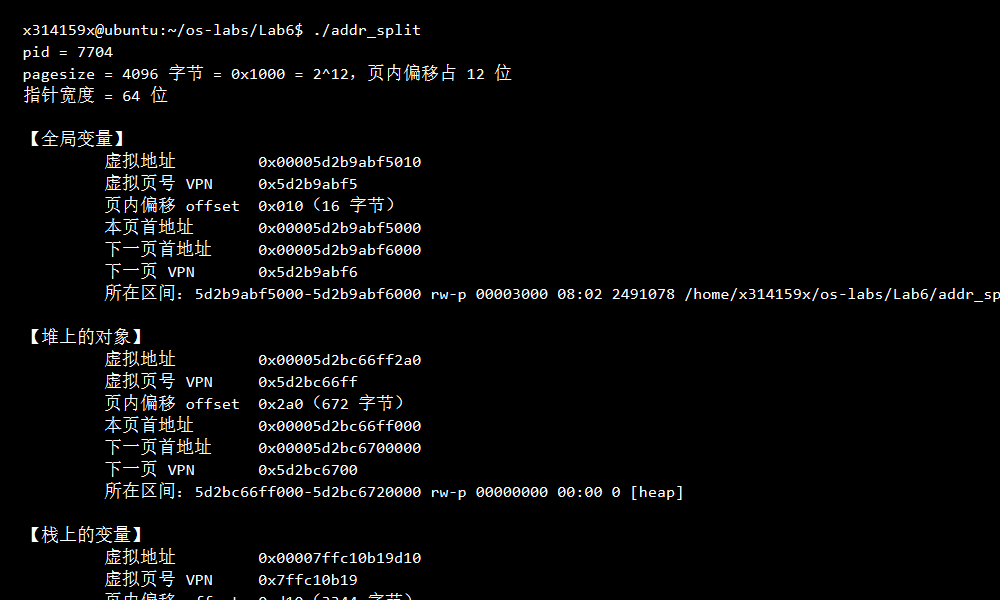
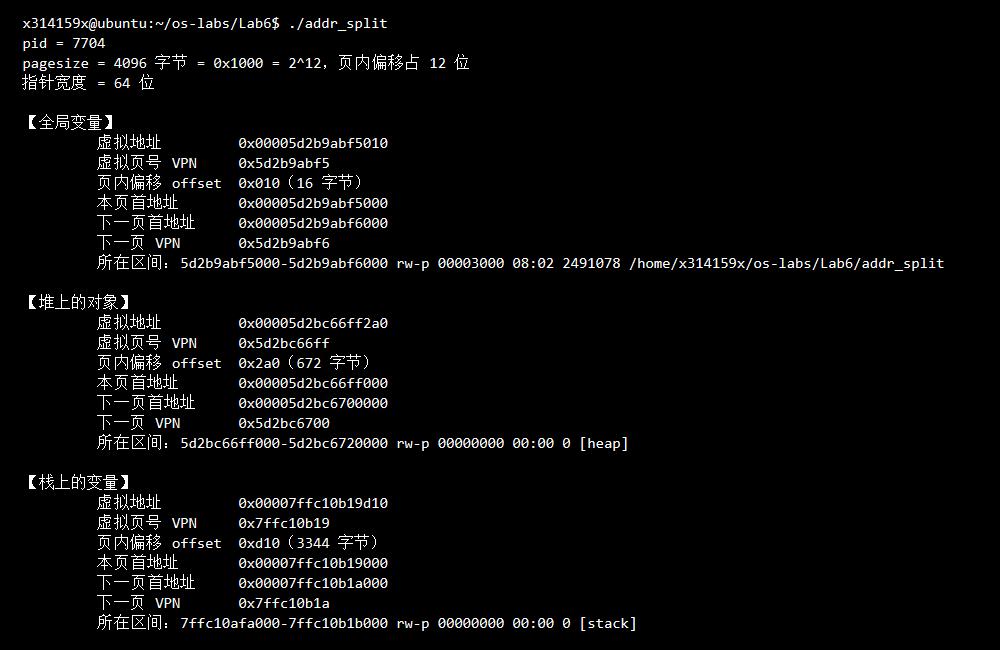
[2026333016王石]Lab6作业提交

Changed region(s): [[0.0, 0.03, 1.0, 1.0]]

diff --git a/2026333016王石/Lab6/Lab6.md b/2026333016王石/Lab6/Lab6.md
@@ -16,14 +16,7 @@
 
 ### 1.1 虚拟页号与页内偏移
 
-虚拟地址空间按固定大小划分为页，各页从 0 开始编号。一个虚拟地址由以下两部分确定：
-
-| 名称 | 记号 | 含义 |
-| :--- | :--- | :--- |
-| 虚拟页号 | VPN | 标识该地址属于哪个虚拟页 |
-| 页内偏移 | offset | 该地址相对于所属页起始地址的字节距离 |
-
-设虚拟地址为 `addr`，页大小为 `ps`：
+虚拟地址空间以页为单位划分。一个虚拟地址由**虚拟页号（VPN）**和**页内偏移（offset）**共同确定。设虚拟地址为 `addr`、页大小为 `ps`：
 
 ```text
 VPN    = addr ÷ ps 的整数商
@@ -31,44 +24,22 @@ offset = addr 除以 ps 的余数
 addr   = VPN × ps + offset
 ```
 
-例如，页大小为 4096 字节，虚拟地址为 4102：
+例如，页大小为 4096 字节，地址为 4102，则 `4102 = 1 × 4096 + 6`，VPN 为 1、偏移为 6 字节。
+
+### 1.2 为什么使用十六进制
+
+本实验使用的 Linux 通常采用 **4 KiB 页**，即 `4096 = 0x1000 = 2¹²` 字节。页内偏移占低 12 位，对应**末尾 3 位十六进制数字**；其余高位对应 VPN。
 
 ```text
-4102 = 1 × 4096 + 6
-VPN = 1，offset = 6
+虚拟地址：0x000055d0a1b2c010
+虚拟页号：0x55d0a1b2c     ← 去掉末尾 3 位
+页内偏移：0x010           ← 保留末尾 3 位（16 字节）
+本页首址：0x000055d0a1b2c000 ← 末尾 3 位置零
 ```
 
-这表示地址 4102 属于虚拟页 1，距离该页起始地址 6 字节。
+因此，地址、VPN 和页首地址用**十六进制**表示更便于观察；偏移用十六进制表示，并附带十进制字节数。程序会自动显示实际页大小，**只有页大小为 4096 字节时才能直接按末尾 3 位拆分**；其他页大小应根据实际位数或使用上面的除法与取余计算。
 
-### 1.2 页边界
-
-4 KiB 等于 4096 字节。采用该页大小时，前三个虚拟页的地址范围如下，区间两端均包含在内：
-
-| VPN | 虚拟地址范围（十进制） |
-| :---: | :--- |
-| 0 | 0～4095 |
-| 1 | 4096～8191 |
-| 2 | 8192～12287 |
-
-余数小于除数，因此页内偏移满足：
-
-```text
-0 ≤ offset < ps
-```
-
-4 KiB 页的偏移范围是 0～4095。由于 `4096 = 2¹²`，偏移占 12 个二进制位。程序会自动显示本机页大小与偏移位数，无需手工拆解二进制地址。
-
-地址增加 1 时，是否跨页取决于原偏移：
-
-- 原偏移小于 `ps − 1`：VPN 不变，偏移增加 1。
-- 原偏移等于 `ps − 1`：VPN 增加 1，偏移变为 0。
-
-例如，地址 4095 的 VPN 为 0、偏移为 4095；地址 4096 的 VPN 为 1、偏移为 0。以下两个公式用于定位当前页与下一页的起点：
-
-```text
-本页首地址   = addr − offset
-下一页首地址 = 本页首地址 + ps
-```
+页内偏移总满足 `0 ≤ offset < ps`。页大小为 4096 时，范围为 `0x000～0xfff`（即 0～4095 字节）。本页首地址为 `addr − offset`，下一页首地址为 `本页首地址 + ps`。地址增加 1 字节是否跨页，取决于当前偏移是否已到该页末尾。
 
 ### 1.3 页与内存映射区间
 
@@ -263,152 +234,85 @@ echo $?
 
 正常退出状态应为 `0`。保留本次输出，后续表格与截图统一使用这次运行的数据。重新运行时地址可能变化，不应混合不同运行的记录。
 
-### 步骤 7：按字段读取输出
+### 步骤 7：读取输出并完成实验记录
 
-以下内容仅为**教学示例**，用于说明格式和读取方法，不作为学生实测记录：
+在步骤 1 建立的本机 `Lab6.md` 中填写本节表格和问题。以下是一组**教学示例**，展示如何读取程序输出，**不得代替本人实测结果**。实际地址每次运行可能不同。
 
 ```text
 pid = 5312
-pagesize = 4096 字节 = 2^12，因此页内偏移占 12 位
+pagesize = 4096 字节 = 0x1000 = 2^12，页内偏移占 12 位
 指针宽度 = 64 位
 
 【全局变量】
-         地址             0x000055d0a1b2c010
-         页号 VPN         23035779884
-         页内偏移 offset  16
+         虚拟地址         0x000055d0a1b2c010
+         虚拟页号 VPN     0x55d0a1b2c
+         页内偏移 offset  0x010（16 字节）
          本页首地址       0x000055d0a1b2c000
-         地址 +1 的页号    23035779884（仍在同一页）
-         下一页首地址     0x000055d0a1b2d000，页号 23035779885
+         下一页首地址     0x000055d0a1b2d000
+         下一页 VPN       0x55d0a1b2d
          所在区间：55d0a1b2c000-55d0a1b2d000 rw-p 00001000 08:01 1234567 /home/student/os-labs/Lab6/addr_split
 
 【堆上的对象】
-         地址             0x000055d0a3e4f2a0
-         页号 VPN         23035788879
-         页内偏移 offset  672
+         虚拟地址         0x000055d0a3e4f2a0
+         虚拟页号 VPN     0x55d0a3e4f
+         页内偏移 offset  0x2a0（672 字节）
          本页首地址       0x000055d0a3e4f000
-         地址 +1 的页号    23035788879（仍在同一页）
-         下一页首地址     0x000055d0a3e50000，页号 23035788880
+         下一页首地址     0x000055d0a3e50000
+         下一页 VPN       0x55d0a3e50
          所在区间：55d0a3e4f000-55d0a3e70000 rw-p 00000000 00:00 0 [heap]
 
 【栈上的变量】
-         地址             0x00007ffd3c2a4b2c
-         页号 VPN         34356839076
-         页内偏移 offset  2860
+         虚拟地址         0x00007ffd3c2a4b2c
+         虚拟页号 VPN     0x7ffd3c2a4
+         页内偏移 offset  0xb2c（2860 字节）
          本页首地址       0x00007ffd3c2a4000
-         地址 +1 的页号    34356839076（仍在同一页）
-         下一页首地址     0x00007ffd3c2a5000，页号 34356839077
+         下一页首地址     0x00007ffd3c2a5000
+         下一页 VPN       0x7ffd3c2a5
          所在区间：7ffd3c286000-7ffd3c2a7000 rw-p 00000000 00:00 0 [stack]
 ```
 
-以上示例包含程序输出的环境信息和三个对象的完整记录。各段字段顺序相同，按以下顺序阅读：
+**读法提示：**每个对象从其标题读到下一对象标题之前；`0x` 表示十六进制，`pagesize` 是页大小（字节）。以示例全局变量为例，`0x...c010` 的末三位 `010` 为偏移，高位 `0x55d0a1b2c` 为 VPN；对应页首地址以 `000` 结尾。`所在区间` 取自 `/proc/self/maps`，其起止地址通常不带 `0x`，依然是十六进制。`rw-p` 表示可读、可写、不可执行及私有映射。
 
-1. **读取页大小。** `pagesize` 后的数值是后续判断使用的 `ps`。示例为 4096 字节，实际记录采用本人输出。
-2. **区分地址与值。** “地址”一行是对象的虚拟地址，不是变量中保存的 1、2 或 3；以 `0x` 开头表示十六进制。
-3. **读取 VPN 与偏移。** 两行均为十进制数。示例中三个偏移分别为 16、672、2860，均满足 `0 ≤ offset < 4096`。完整地址可以原样复制，无需手工转换为十进制。
-4. **核对页边界。** 示例全局变量的下一页 VPN 为 `23035779885`，比当前 VPN `23035779884` 大 1；堆对象和栈变量也满足这一关系。三个对象的“地址 +1”仍在同一页，是因为原偏移均未达到页末；不能据此推断所有地址增加 1 都不跨页。
-5. **识别映射区间。** “所在区间”由程序自动匹配，不需要在 maps 中搜索变量名。全局变量通常对应 `addr_split` 文件的可写映射，堆对象通常对应 `[heap]`，栈变量通常对应 `[stack]`；具体路径与标签以实际输出为准。
-
-示例全局变量的地址减去偏移 16，即得到本页首地址 `0x000055d0a1b2c000`，其映射区间恰好也从此处开始。栈变量所在页的首地址为 `0x00007ffd3c2a4000`，而栈映射区间从 `0x00007ffd3c286000` 开始，说明一个映射区间可以包含多个页，区间起点与对象所在页的首地址不一定相同。
-
-maps 中的地址通常不带 `0x`，与程序打印地址的数值表示一致。权限串 `rw-p` 分别表示可读、可写、不可执行、私有映射。设备号、inode 和文件偏移仅作输出信息保留，本次不要求解释。
-
-### 步骤 8：填写实验记录并核对
-
-在步骤 1 创建的本机报告中填写以下表格。
-
-**运行信息：**
+**A. 运行信息（本人实测）**
 
 | 项目 | 本人实测结果 |
 | :--- | :--- |
-| Ubuntu 实验目录完整路径（步骤 2 或 4 的 `pwd` 输出） | /home/x314159x/os-labs/Lab6 |
+| Ubuntu 实验目录完整路径（`pwd`） | /home/x314159x/os-labs/Lab6 |
 | 编译退出状态（步骤 5 的 `echo $?`） | 0 |
 | 运行退出状态（步骤 6 的 `echo $?`） | 0 |
-| 页大小，单位为字节（`pagesize`） | 4096 |
+| 页大小（字节，`pagesize`） | 4096 |
 
-**地址分解结果：填写方法**
+**B. 地址分解记录（本人同一次运行）**
 
-表格的一行对应一个对象，三个数据列分别对应程序输出中的三个字段。按以下步骤填写。
+直接按三段输出填写；虚拟地址、VPN 和 offset 都保留 `0x` 前缀，offset **只填写十六进制部分**，不要复制括号中的十进制值。
 
-**1. 确定输出段与表格行的对应关系。**
-
-- `【全局变量】` 下的字段填写到“全局变量”行。
-- `【堆上的对象】` 下的字段填写到“堆上的对象”行。
-- `【栈上的变量】` 下的字段填写到“栈上的变量”行。
-
-每段从对象名称开始，到下一个对象名称之前结束。填写某一行时，三个数值必须取自同一段输出。
-
-**2. 按列提取字段。** 以步骤 7 的全局变量教学示例为例：
-
-| 报告中的列 | 对应的输出行 | 该列填写内容 | 填写要求 |
+| 对象 | 完整虚拟地址（十六进制） | VPN（十六进制） | offset（十六进制） |
 | :--- | :--- | :--- | :--- |
-| 完整虚拟地址 | `地址 0x000055d0a1b2c010` | `0x000055d0a1b2c010` | 保留完整地址及 `0x` 前缀，不填“本页首地址”或 maps 区间起点 |
-| 页号 VPN | `页号 VPN 23035779884` | `23035779884` | 复制当前对象的页号，不填“地址 +1 的页号”或“下一页首地址”后的页号 |
-| 页内偏移 offset | `页内偏移 offset 16` | `16` | 复制偏移数值，不填页大小 `4096` 或偏移位数 `12` |
+| 全局变量 | `0x00005d2b9abf5010` | `0x5d2b9abf5` | `0x010` |
+| 堆上的对象 | `0x00005d2bc66ff2a0` | `0x5d2bc66ff` | `0x2a0` |
+| 栈上的变量 | `0x00007ffc10b19d10` | `0x7ffc10b19` | `0xd10` |
 
-记录字段右侧的数值即可。虚拟地址来自对象对应的“地址”行；VPN 与 offset 是程序根据该地址和 `pagesize` 计算的结果，其计算方法如下。
+**C. 核对与分析（需要填写答案，不只复制程序输出）**
 
-**3. 根据地址与页大小计算 VPN 和偏移。**
+1. **偏移范围核对：**根据本人实测的 `pagesize`，写出 offset 的允许范围（十六进制），列出三个对象的实测 offset，并判断是否全部符合。
 
-从输出顶部的 `pagesize` 获取页大小 `ps`，从当前对象的“地址”行获取虚拟地址 `addr`。计算关系为：
+   答：页大小为 4096 字节 = `0x1000`，offset 的允许范围是 `0x000`～`0xfff`（即 0～4095 字节）。三个对象的实测 offset 分别为：全局变量 `0x010`、堆上的对象 `0x2a0`、栈上的变量 `0xd10`，全部在允许范围内。
 
-```text
-VPN    = addr ÷ ps 的整数商
-offset = addr − VPN × ps
-```
+2. **页边界计算：**假设页大小为 `4096 = 0x1000` 字节，某地址的 VPN 为 `0x2a`、offset 为 `0xfff`（4095 字节）。该地址增加 **1 字节**后，新的 VPN 和 offset 分别是多少（均写十六进制）？写出计算过程并说明是否跨页。**本题不直接抄程序结果。**
 
-其中 offset 也是 `addr` 除以 `ps` 的余数。计算后用 `VPN × ps + offset = addr` 核对，并检查 `0 ≤ offset < ps`。
+   答：原 offset 为 `0xfff`，已是该页的最后一个字节（4095 字节，`0x1000 - 1`）。地址增加 1 字节后，offset 从 `0xfff` 变为 `0x000`，VPN 从 `0x2a` 加 1 变为 `0x2b`。新的 VPN = `0x2b`，offset = `0x000`。该地址跨页了。
 
-对于示例中的 4096 字节页，`4096 = 0x1000 = 2¹²`，恰好对应三位十六进制数字。因此，可将地址的末三位作为偏移，其余高位作为 VPN：
+3. **所在页与映射区间：**从本人**栈变量**的输出中，记录“本页首地址”，再从 `所在区间` 的 `起点-终点` 中取出“映射区间起点”（二者都写十六进制）。两者是否相同？结合结果说明一个 maps 映射区间与一个虚拟页之间的关系。
 
-```text
-全局变量虚拟地址：0x000055d0a1b2c010
+   本页首地址：`0x00007ffc10b19000`
 
-VPN 的十六进制表示：0x000055d0a1b2c
-VPN 的十进制表示：  23035779884
+   映射区间起点：`0x7ffc10afa000`
 
-offset 的十六进制表示：0x010
-offset 的十进制表示：  16
+   是否相同及说明：两者不相同。栈变量所在页的首地址是 `0x...9000`，而映射区间从 `0x...afa000` 开始，区间起点比本页首地址低了好几个页。这说明一个 maps 映射区间可以包含多个连续的虚拟页，区间的起点不一定正好等于某个对象所在页的首地址；一个映射区间通常覆盖一段连续的虚拟地址，其中包含多个页。
 
-核对：23035779884 × 4096 + 16 = 0x000055d0a1b2c010
-```
+注意：maps 区间左端包含、右端不包含；区间起点**不一定**等于栈变量所在页的首地址。若结果与预期不同，应保留真实输出并分析，不要照抄教学示例。无需计算物理地址。
 
-十六进制与十进制之间的转换可使用计算器的程序员模式。其余两个示例对象的偏移计算为：
-
-- 堆对象地址末三位为 `2a0`：`0x2a0 = 2 × 16² + 10 × 16 = 672`。
-- 栈变量地址末三位为 `b2c`：`0xb2c = 11 × 16² + 2 × 16 + 12 = 2860`。
-
-“末三位为偏移”仅适用于 4096 字节页。实测页大小不同时，应采用通用的整数除法与取余公式。报告可直接记录程序输出的计算结果，上述方法用于理解和核对数值来源。
-
-**4. 对照完整填写示例。** 根据步骤 7 的三段教学输出，填写结果如下。此表仅用于展示对应关系，学生实测数据填写在后面的空表中。
-
-| 对象 | 完整虚拟地址 | 页号 VPN | 页内偏移 offset |
-| :--- | :--- | :--- | :--- |
-| 全局变量 | `0x000055d0a1b2c010` | 23035779884 | 16 |
-| 堆上的对象 | `0x000055d0a3e4f2a0` | 23035788879 | 672 |
-| 栈上的变量 | `0x00007ffd3c2a4b2c` | 34356839076 | 2860 |
-
-**地址分解结果：本人实测记录**
-
-下表是需要填写的记录表。三个对象的数据均取自本人同一次运行，不使用上面的教学示例数值代替实测结果。
-
-| 对象 | 完整虚拟地址 | 页号 VPN | 页内偏移 offset |
-| :--- | :--- | :--- | :--- |
-| 全局变量 | `0x00005d2b9abf5010` | 25010220021 | 16 |
-| 堆上的对象 | `0x00005d2bc66ff2a0` | 25010398975 | 672 |
-| 栈上的变量 | `0x00007ffc10b19d10` | 34355612441 | 3344 |
-
-**结果核对：**使用本次输出完成以下两项，不要求计算物理地址或不同对象之间的地址距离。
-
-| 核对项目 | 结果与依据 |
-| :--- | :--- |
-| 三个对象的偏移是否均在 `0 ≤ offset < ps` 范围内 | 是。页大小为4096字节，偏移范围为0～4095。三个实测偏移分别为16、672、3344，均在范围内。 |
-| 全局变量的“下一页首地址”对应 VPN 是否等于当前 VPN 加 1 | 是。全局变量当前VPN为25010220021，下一页VPN为25010220022，两者相差1。 |
-
-核对方法：页大小为 `ps` 时，偏移允许范围为 `0～ps−1`；第二项只比较程序已经打印的两个十进制页号，无需计算长十六进制地址。若不符合关系，先核对是否抄错字段或混用了两次运行，保留实际结果并注明原因。
-
-其他输出仅用于阅读与截图，不要求另抄映射区间、指针宽度或填写额外分析题。
-
-### 步骤 9：保存运行截图
+### 步骤 8：保存运行截图
 
 截图文件名为 `imgs/lab6_split.png`，保存于本机报告同级的 `imgs` 文件夹。
 
@@ -479,8 +383,8 @@ TLB 缓存地址转换结果。命中时可以复用转换；在课程使用的 
 
 提交前核对：
 
-- 步骤 8 的运行信息、三个对象的地址分解结果及两项核对均已填写。
-- 报告采用本人实测数据，与步骤 9 的截图对应同一次运行。
+- 步骤 7 的运行信息、三个对象的地址分解记录及三道分析题均已填写。
+- 报告采用本人实测数据，与步骤 8 的截图对应同一次运行。
 - 图片在 Markdown 预览中显示正常，命令与输出清晰可读，未使用手机拍屏或他人截图。
 - 报告保留模板正文、表格与图片引用，选读不要求作答。
 - 源码、可执行文件与其他运行材料留在 Ubuntu 实验目录，不增加提交文件。
